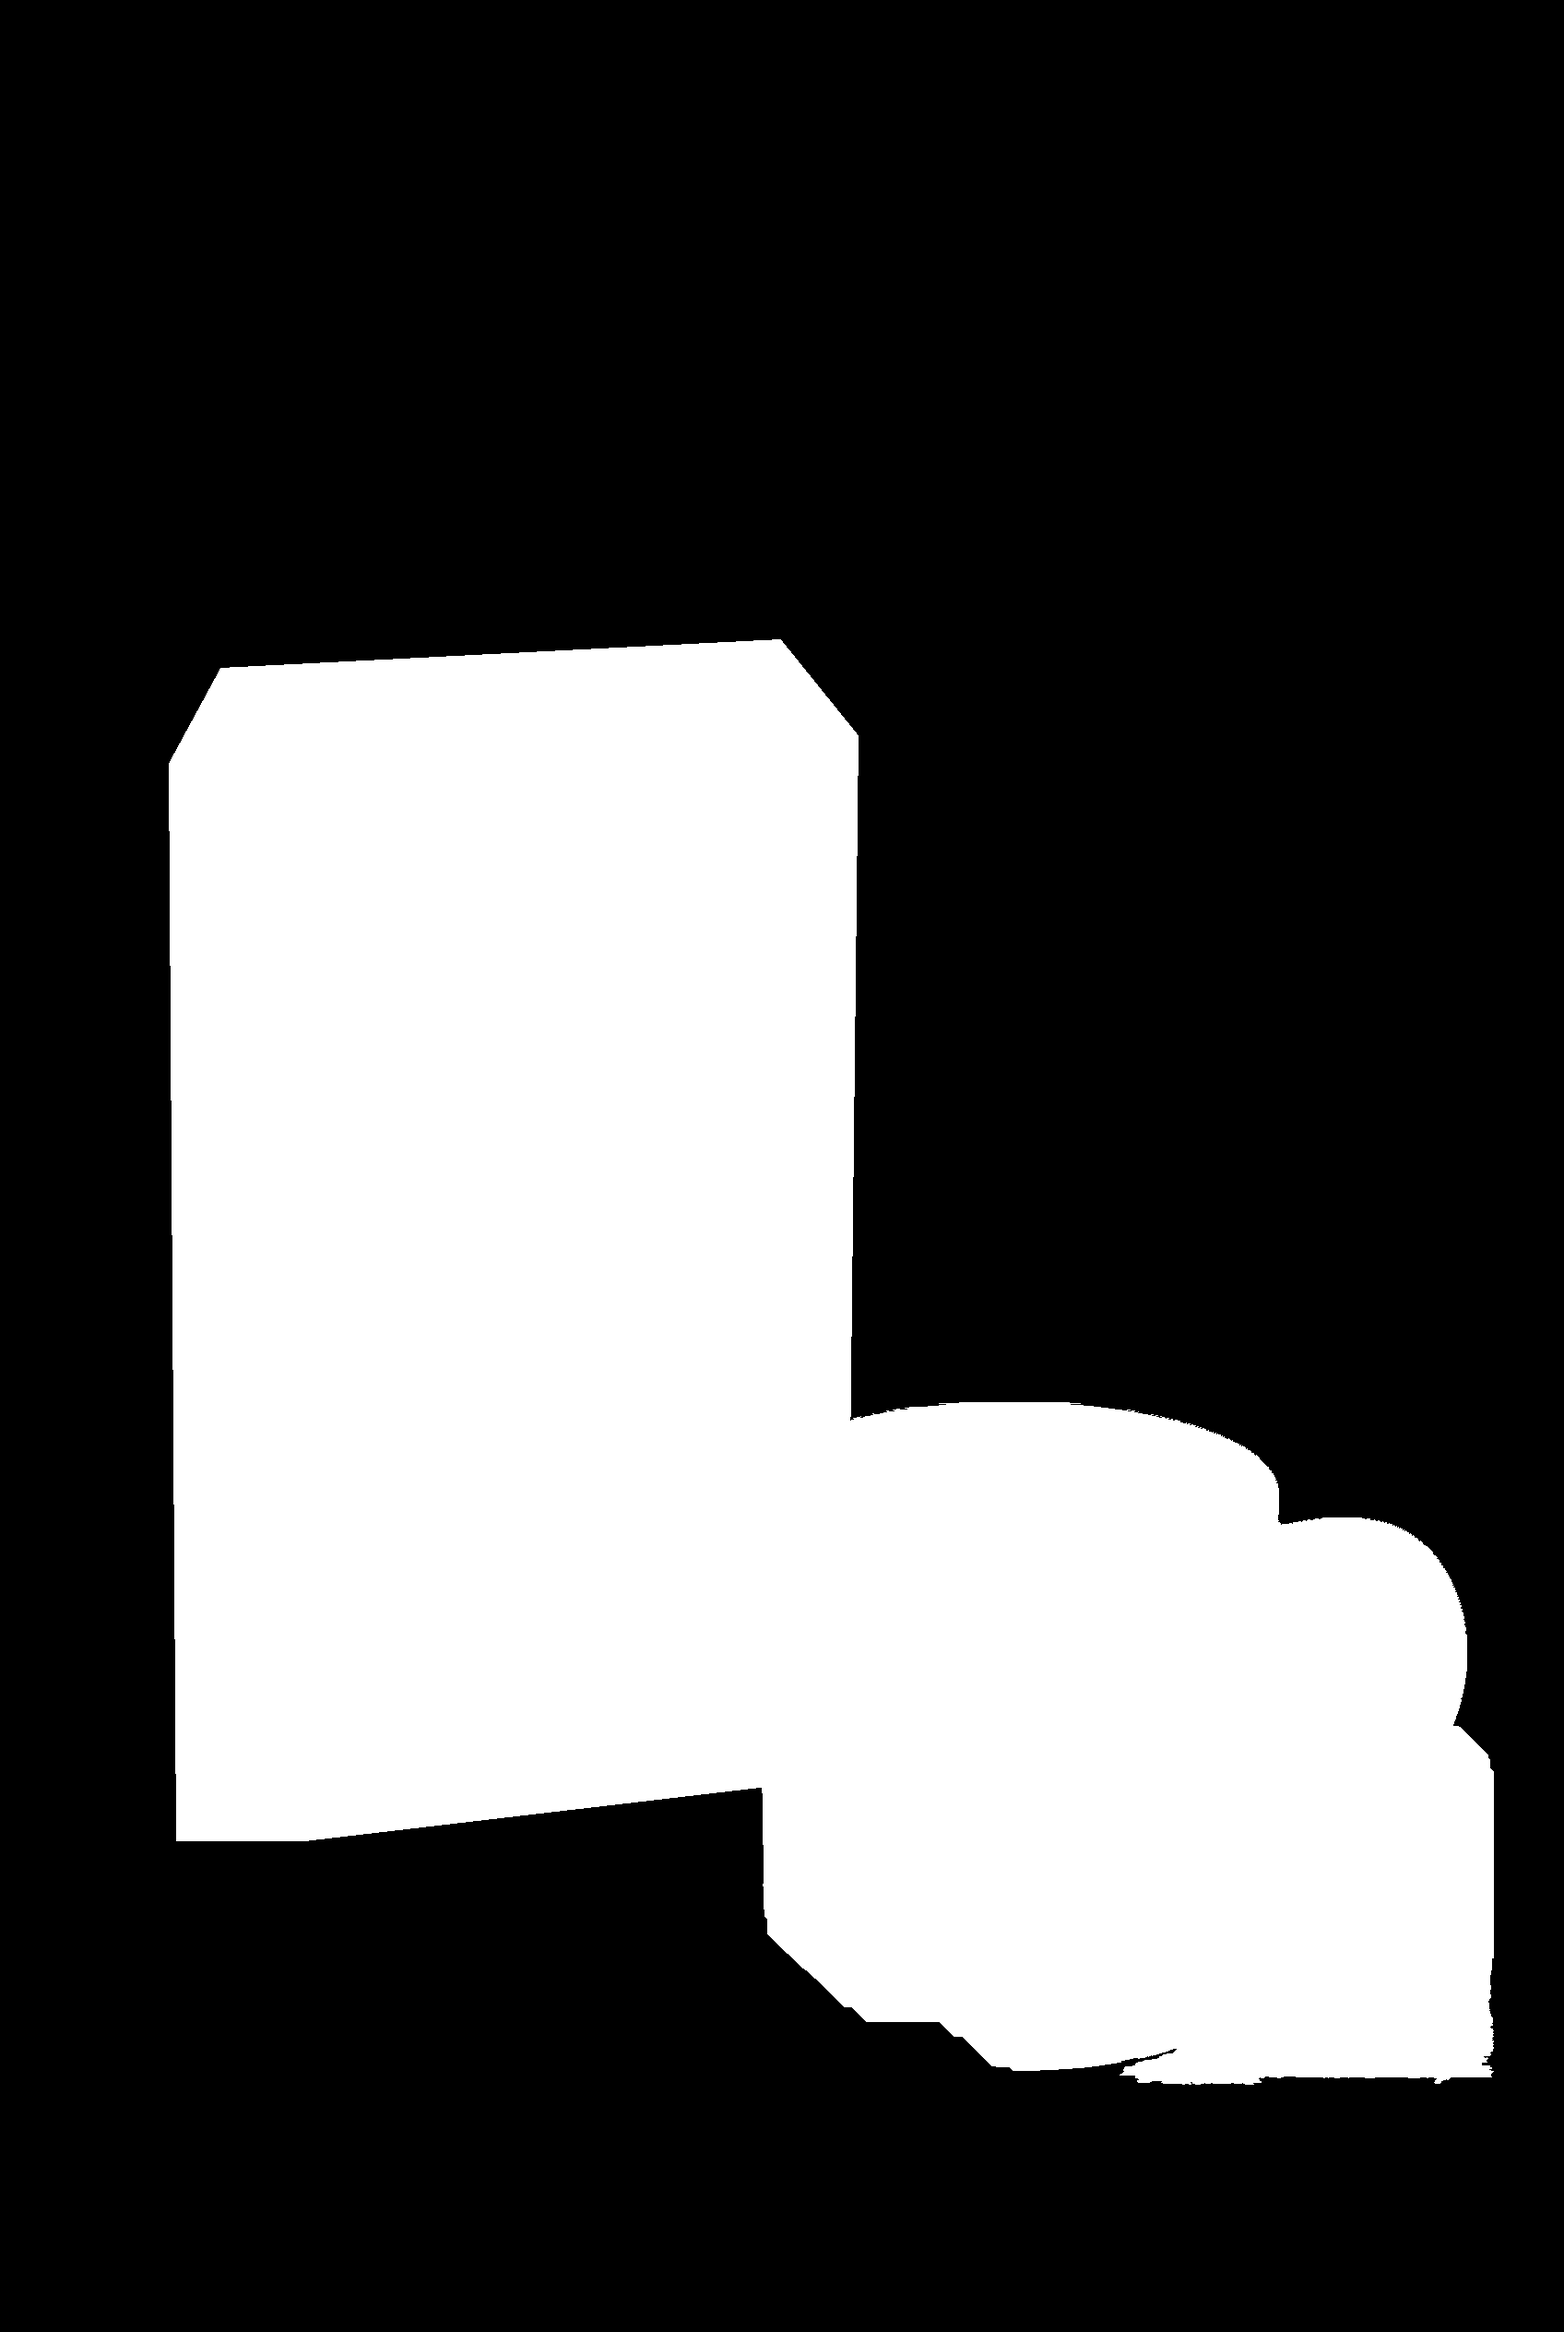
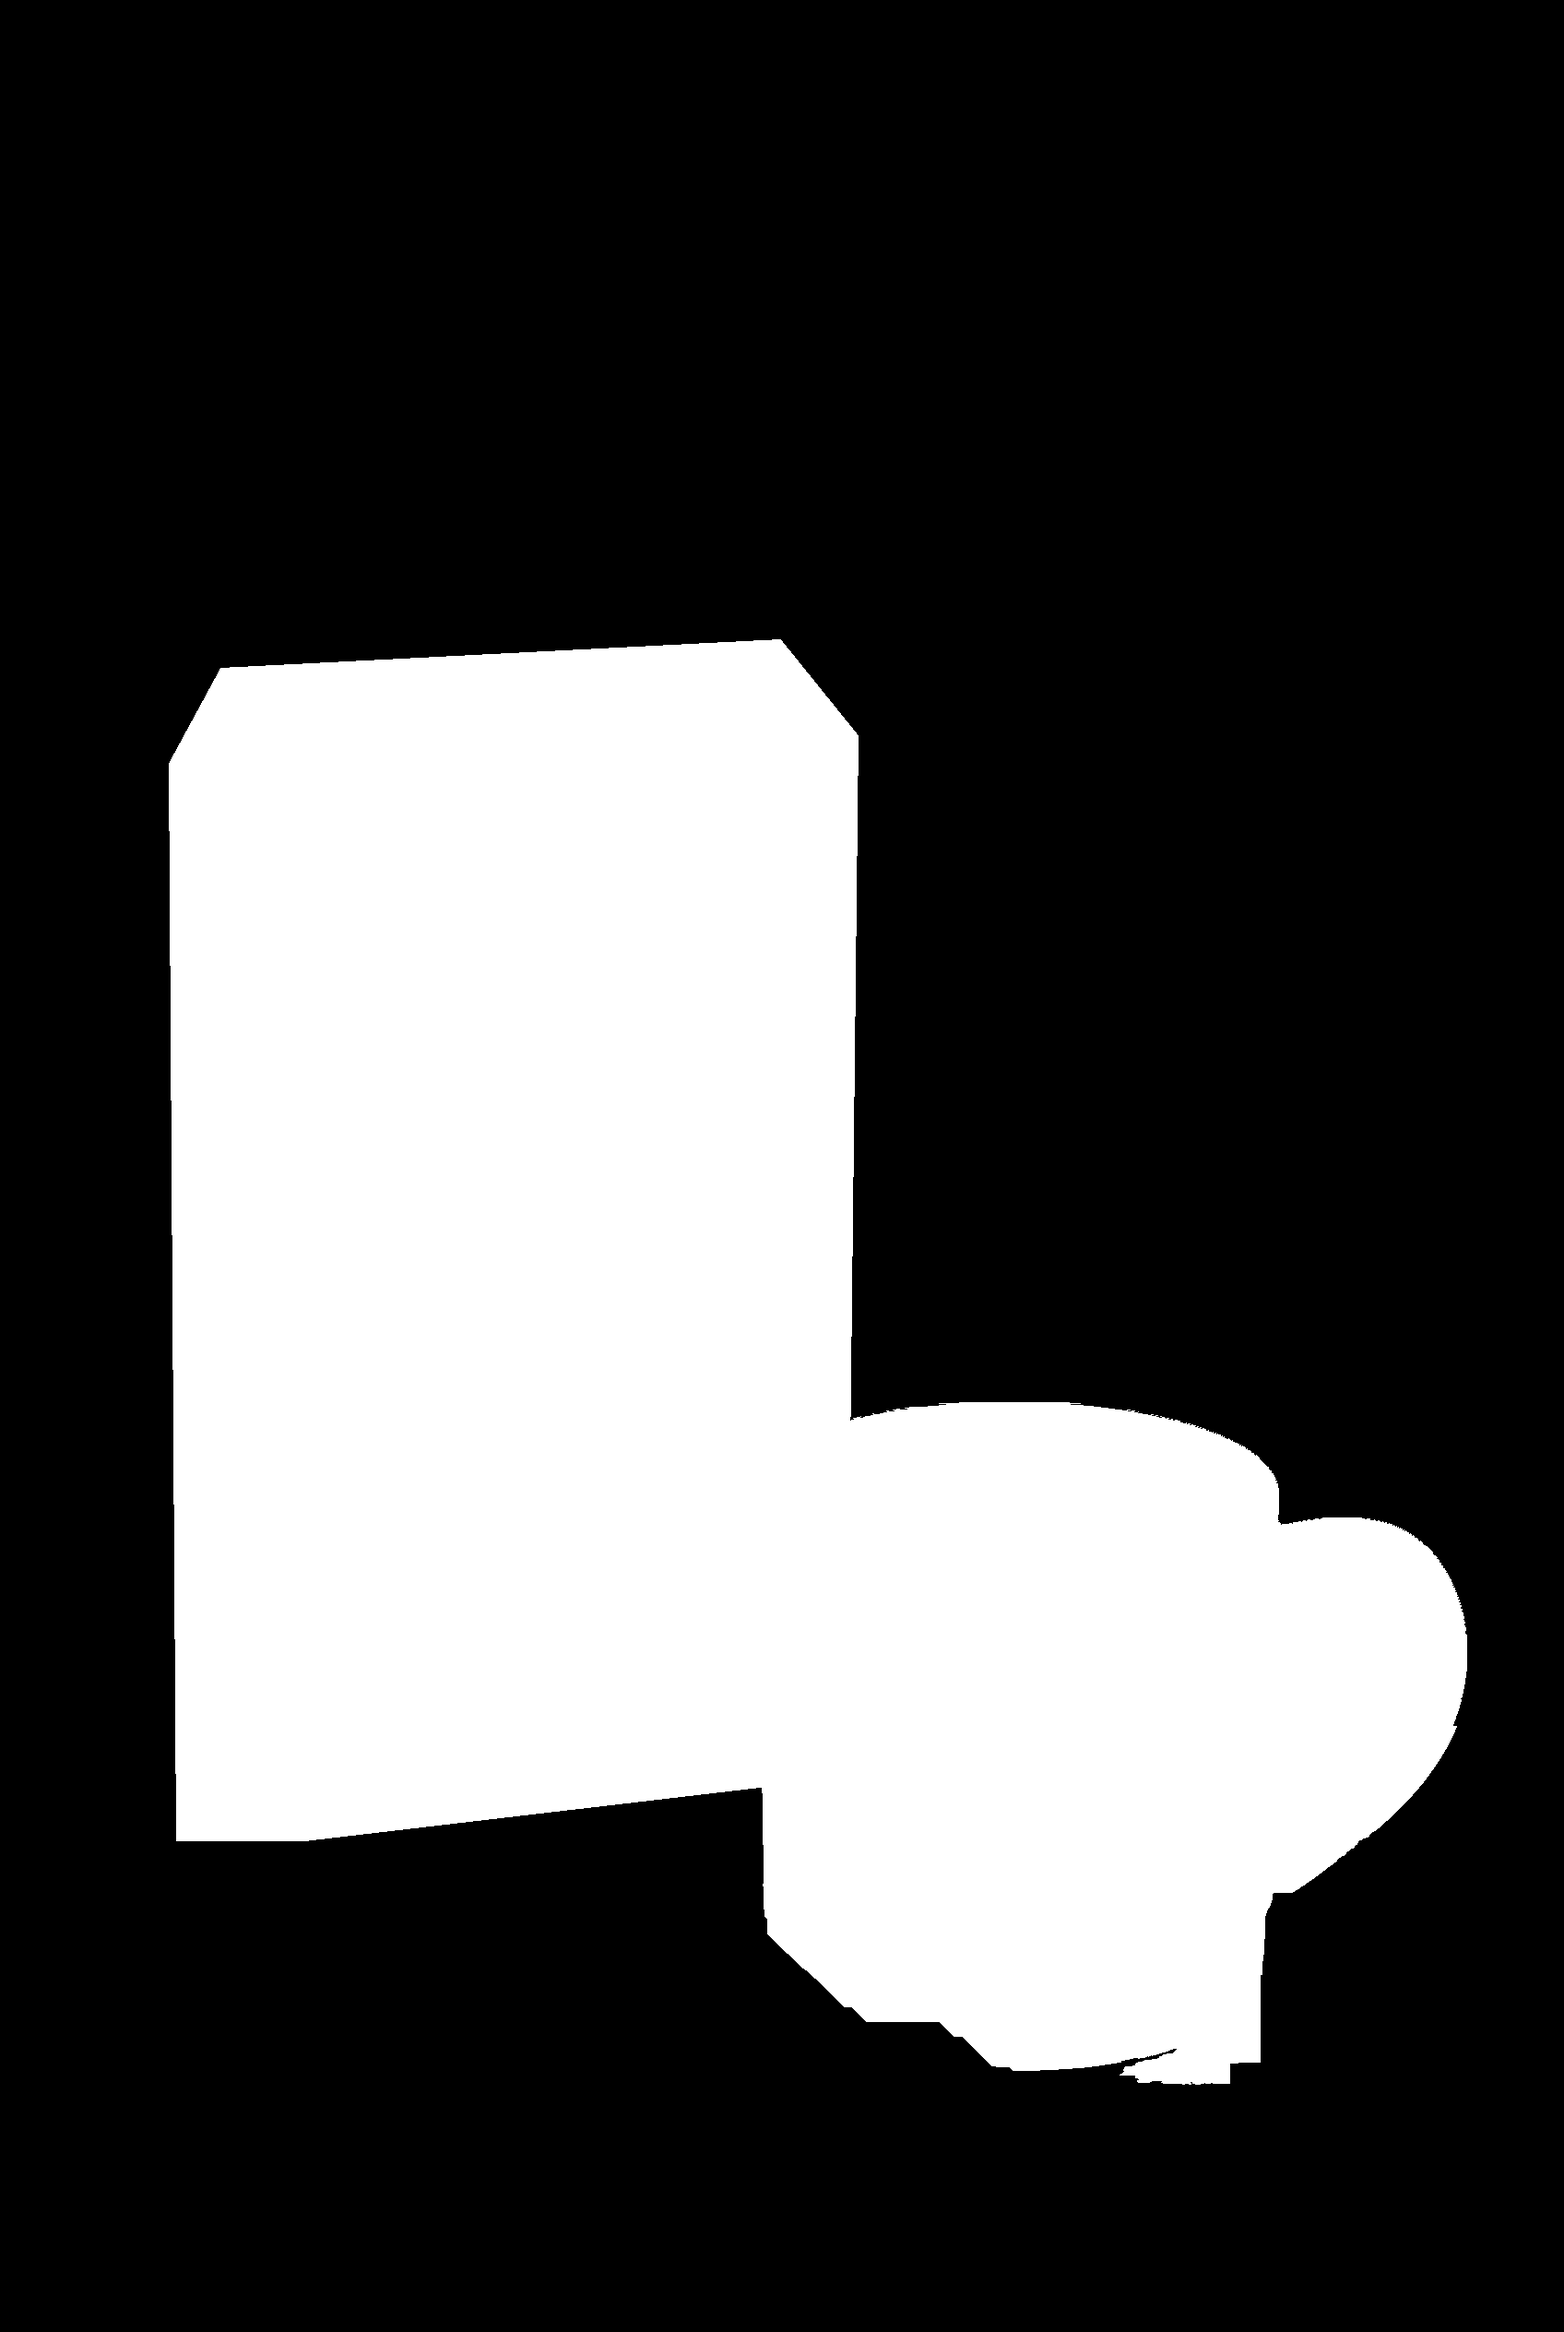
fix(hablador): la escena de Ganocafé centrada y con aire parejo
Auditoría: con la taza en el eje, el grupo quedaba 7,4 mm a la izquierda y con
31 mm de negro vacío a la derecha; la caja casi tocaba la bajada. Ahora se centra
el conjunto, el texto de esta variante sube 3 mm y hay ~4 mm de aire arriba y
abajo. La máscara de la taza se recorta a su borde real: GrabCut se llevaba la
mesa bajo el asa y dejaba un corte vertical.

Claude-Session: https://claude.ai/code/session_01L138yTwmLK9pYKnLxU8RMb

Changed region(s): [[0.7812, 0.75, 0.9688, 0.9062]]

diff --git a/src/app/hablador/[slug]/page.tsx b/src/app/hablador/[slug]/page.tsx
@@ -98,7 +98,7 @@ export default async function Hablador({
         </p>
       </div>
 
-      <section className="hab-pieza" aria-label="Hablador">
+      <section className={`hab-pieza${conGanocafe ? ' hab-pieza--escena' : ''}`} aria-label="Hablador">
         <div className="hab-contenido">
           <div className="hab-arriba">
             <p className="hab-ceja">Catálogo Gano Excel</p>
@@ -143,6 +143,7 @@ function estilos(ancho: number, alto: number, sangre: number, fondo: string, col
   display: flex; flex-direction: column; align-items: center; justify-content: space-between;
   text-align: center;
 }
+.hab-pieza--escena .hab-contenido { padding-top: 10mm; }  /* la escena necesita 3 mm más: ver componer-fondo-hablador.mjs */
 .hab-arriba, .hab-abajo { display: flex; flex-direction: column; align-items: center; }
 .hab-ceja { margin: 0; font-size: 8pt; font-weight: 600; letter-spacing: .01em; color: var(--h-oro); }
 .hab-titulo {

diff --git a/scripts/hablador-reetiquetar-caja.py b/scripts/hablador-reetiquetar-caja.py
@@ -73,6 +73,28 @@ taza = np.where((m == 1) | (m == 3), 255, 0).astype(np.uint8)
 contornos, _ = cv2.findContours(taza, cv2.RETR_EXTERNAL, cv2.CHAIN_APPROX_NONE)
 silueta = np.zeros_like(taza)
 cv2.drawContours(silueta, [max(contornos, key=cv2.contourArea)], -1, 255, -1)
+# GrabCut se lleva mesa a la derecha, bajo el asa, hasta el borde de su rectángulo
+# (21 nov: un corte vertical en la mesa del hablador). Se recorta la silueta al borde
+# real de la taza: el último píxel beige de cada fila, y bajo el asa, el del cuerpo.
+B, G, R = (gen[..., i].astype(int) for i in range(3))
+beige = (R > 105) & (G > 85) & (B > 60) & ((R - B) < 85)
+filas = np.nonzero(silueta.any(axis=1))[0]
+x0, x1 = rect_taza[0], rect_taza[0] + rect_taza[2]
+borde = np.array([(np.nonzero(beige[y, x0:x1])[0].max() + x0) if beige[y, x0:x1].any() else x0 for y in filas])
+borde = np.array([np.median(borde[max(0, i - 4):i + 5]) for i in range(len(borde))])
+# Lo más saliente del asa, buscado en los dos tercios de arriba: abajo, un brillo de
+# la mesa puede ser más «saliente» que el asa (21 nov: x 1665 en la fila 2200).
+pico = int(np.argmax(borde[: int(len(borde) * 0.65)]))
+# Después de su punto más saliente, el borde de la taza solo retrocede (el asa baja
+# hacia el cuerpo y la base se cierra): el mínimo acumulado. Lo beige que reaparece
+# más afuera es brillo de la mesa. ⚠ Probado y descartado: «el primer mínimo» (un
+# diente del borde lo cortaba en el asa) y medir el cuerpo en la boca (es una elipse).
+tope_fila = borde.copy()
+for i in range(pico + 1, len(borde)):
+    tope_fila[i] = min(tope_fila[i - 1], borde[i])
+for i, y in enumerate(filas):
+    tope = int(tope_fila[i]) + 6
+    silueta[y, tope:] = 0
 taza = cv2.GaussianBlur(cv2.dilate(silueta, np.ones((5, 5), np.uint8)).astype(np.float32) / 255, (0, 0), 1.5)
 
 a = cv2.GaussianBlur(np.clip(cara * (1 - taza), 0, 1), (0, 0), 1.0)[..., None]
